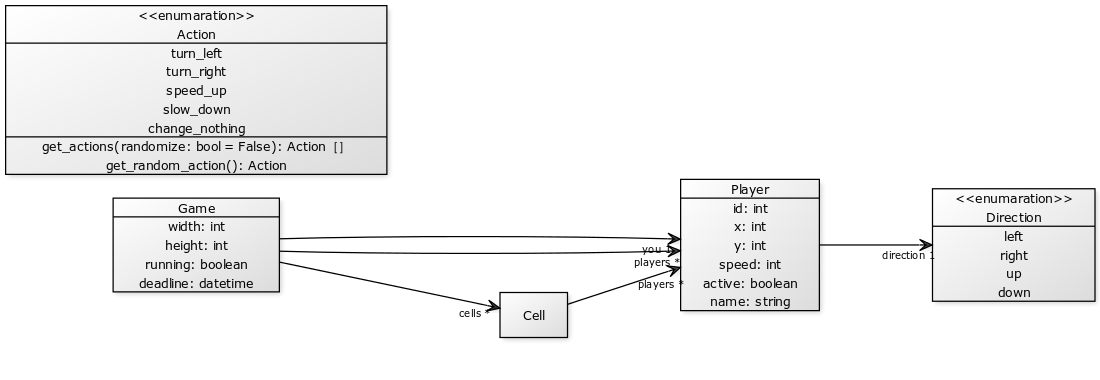
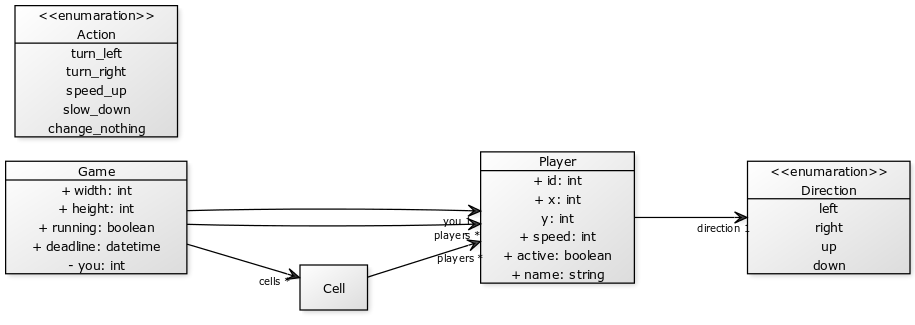
Korrekturen Kapitel Implementierung

Changed region(s): [[0.0, 0.4615, 1.0, 0.9846], [0.0, 0.0, 0.3672, 0.4615], [0.3366, 0.7385, 0.3978, 0.7692]]

diff --git a/dokumentation/Inhalte/Implementierung.tex b/dokumentation/Inhalte/Implementierung.tex
@@ -17,8 +17,8 @@ mithilfe eines objektorientierten Ansatzes abbilden kann. \\
 
 Das Ergebnis der Modellierung ist in \Abbildung{fig:klassendiagramm-modell} zu sehen.
 Das \Code{Game} hat Zugriff auf die eigenen Eigenschaften, kennt aber auch alle \Code{Player}, die an diesem Spiel
-teilnehmen.
-Zudem besteht ein \Code{Game} aus einem zweidimensionalen Array aus \Code{Cells}, die das Spielfeld repräsentieren.
+teilnehmen und weiß, welcher von diesen der eigene Spieler ist.
+Zudem besteht ein \Code{Game} aus einem zweidimensionalen \Code{Cell}s-Array, der das Spielfeld repräsentieren.
 In einer \Code{Cell} befinden sich dann alle Spieler, die dieses Spielfeld bereits besucht haben. \\
 
 \begin{figure}[htb]
@@ -43,7 +43,7 @@ Nutzung nachfolgend noch eingegangen wird. \\
 
 Die zum Start des Spiels öffentlich bereitgestellte Methode \Code{play()} ist in \Listing{lst:online-play} dargestellt.
 Diese ist sehr simpel und ruft lediglich die private Methode \Code{\_\_play()} auf.
-Hierbei handelt es sich um eine asynchrone Methode, wie schon in der Methoden-Signatur deutlich wird.
+Hierbei handelt es sich um eine asynchrone Methode.
 Es wird mittels der Bibliothek \Code{asyncio} sichergestellt, dass diese asynchrone Methode vollständig verarbeitet
 wurde, bevor der Kontrollfluss im Programm weiterläuft.
 Sobald dies der Fall ist, ist das Spielende eingetreten und die Oberfläche wird beendet. \\
@@ -65,8 +65,7 @@ Der Beginn einer neuen Spielrunde wird damit eingeläutet, dass neue Daten über
 versendet werden.
 Dabei handelt es sich jeweils um den aktuellen Zustand des Spiels mit allen notwendigen Daten.
 Zur Serialisierung wird das Spiel in ein JSON-Format übersetzt.
-Ein Beispiel zur Veranschaulichung dieses Formats ist in \Anhang{lst:json-spiel} abgebildet.
-Anzumerken ist, dass die exakte Formatierung des Strings abweichen kann. \\
+Ein Beispiel zur Veranschaulichung dieses Formats ist in \Anhang{lst:json-spiel} abgebildet. \\
 
 Dieser eingelesene String wird an ein Objekt der Klasse \Code{JSONDataLoader} übergeben, welches die Übersetzung des
 JSON-Formats in ein \Code{Game}-Objekt - das wie in \Kapitel{sec:modellierung} beschrieben modelliert ist - zur Aufgabe
@@ -74,11 +73,10 @@ hat. \\
 
 Sobald das Spiel fertig aufgebaut wurde, wird ein \Code{GET}-Request an den Server geschickt, auf welchen
 die aktuelle Server-Zeit als Antwort erwartet wird und ebenfalls durch den \Code{JSONDataLoader} aus einem String in ein
-\Code{datetime}-Objekt geparst wird.
-Diese Server-Zeit wird dann verwendet, um durch einen Abgleich mit der Zeit des eigenen Systems gegebenenfalls die
-Deadline für die Festlegung auf die nächste Aktion zu verschieben, da diese sich immer nach der Server-Zeit richtet.
-Es wird hierbei eine Toleranz von drei Sekunden eingebaut, da je nach Internet-Verbindung die Anfrage an den Server
-etwas dauern kann und so die Aktion besser zu früh als zu spät übermittelt werden sollte.
+\Code{datetime}-Objekt \Vgl{python-datetime} geparst wird.
+Da die Server- und die System-Zeit abweichen können und die Deadline-Zeit des Spiels auf der Server-Zeit basiert,
+wird die Abweichung zwischen dem Server und dem eigenen System berechnet und diese dann auf die Deadline angewendet,
+sodass diese anschließend mit dem eigenen System synchronisiert ist.
 
 \subsection{Ermittlung der besten Aktion}
 \label{subsec:ermitteln-aktion}
@@ -95,27 +93,30 @@ nächsten Zug berechnet, durch die der Spieler nicht direkt sterben wird.
 Erst im Anschluss wird die Berechnung der eigentlich ausgewählten \ac{KI} in einem neuen Prozess gestartet. \\
 
 Hierbei kann die Berechnung länger dauern, als in der Spielrunde zeitlich zur Verfügung steht.
-Daher wird dieser Prozess eine Sekunde vor Ablauf der Deadline abgebrochen, falls die Berechnung der \ac{KI} noch nicht
-beendet ist.
-Bei einem Abbruch wird dann die Standard-Aktion an den Server geschickt, andernfalls wird die Berechnung der stärkeren
-\ac{KI} verwendet.
+Daher wird dieser Prozess eine Sekunde vor Ablauf der Deadline abgebrochen, falls die Berechnung der \ac{KI} dann noch
+nicht beendet ist.
+Bei einem Abbruch wird die errechnete Standard-Aktion an den Server geschickt, andernfalls wird die Berechnung der
+stärkeren \ac{KI} verwendet.
+Es kann allerdings sein, dass eine \ac{KI} schon Zwischenergebnisse bereitstellt, welche in dem Fall dann den
+Rückgabewert darstellen.
 Welche Art der im \Kapitel{ch:loesungsansatz} beschriebenen \ac{KI}s gewählt wird, steht dem Anwender grundsätzlich
 vollkommen frei.
 
 \subsection{Übergabe der Aktion an die Web-API}
 \label{subsec:uebergabe-aktion}
 
-Sobald eine Aktion ausgewählt wurde, muss diese dem Server noch mitgeteilt werden.
-In der Dokumentation für die diesjährige Aufgabenstellung wurde festgehalten, dass auch hier wieder das JSON-Format
-verwendet werden soll.
+Sobald eine Aktion ausgewählt wurde, muss diese dem Server mitgeteilt werden.
+In der Dokumentation für die diesjährige Aufgabenstellung \Vgl{informaticup21-aufgabe} wurde festgehalten, dass auch
+hier wieder das JSON-Format verwendet werden soll.
 Daher wird die Aktion an die Klasse \Code{JSONDataWriter} überreicht, die einen String folgender Form erstellt:
-\texttt{\{\dq action\dq : \dq speed\_up\dq \}}, welcher dann über die Websocket-Verbindung an den Server gesendet wird.
+\texttt{\{\dq action\dq : \dq speed\_up\dq \}}.
+Dieser wird anschließend über die Websocket-Verbindung an den Server gesendet.
 
 \section{Implementierung des Offline-Spiels}
 \label{sec:offline-implementierung}
 
 Bei der Offline-Version des Spiels ging es darum, lokal die eigenen \ac{KI}s gegeneinander spielen zu lassen und
-als menschlicher Spieler gegen die \ac{KI} antreten zu können, ohne eine Verbindung zum spe\_ed-Server herstellen zu
+als menschlicher Spieler gegen die \ac{KI}s antreten zu können, ohne eine Verbindung zum spe\_ed-Server herstellen zu
 müssen.
 Dies ermöglichte uns, lokal zu testen und unsere verschiedenen Lösungsansätze (siehe \Kapitel{ch:loesungsansatz})
 gegeneinander auszuprobieren, um zu beurteilen, welche die beste Strategie ist.
@@ -135,6 +136,9 @@ Dieses \Code{Game}-Objekt wird dann im Spielverlauf durch den \Code{GameService}
 Zusätzlich werden die \ac{KI}s erzeugt und exklusiv einem Spieler zugeordnet, der sich im Spiel befindet.
 Solange das Spiel läuft, werden der Reihe nach die nächsten Aktionen der
 Spieler/\ac{KI}s abgefragt und an den \Code{GameService} weitergeleitet.
+Die Berechnung einer \ac{KI} findet in einem eigenen Prozess statt.
+Falls mehr Zeit gebraucht wird, als in der Runde zur Verfügung steht, kann der Prozess dann abgebrochen werden, um eine
+Fortführung des Spiels zu gewährleisten.
 
 \subsection{Implementierung des GameService}
 \label{subsec:game-service}
@@ -169,13 +173,13 @@ Aktion machen darf und ob ein neuer Spielzug nach dieser Aktion beginnt.
 Nachfolgend wird dann die Aktion mit der Methode \Code{get\_and\_visit\_cells(player: Player, action: Action)}
 simuliert.
 Der Code der Methode befindet sich im \Anhang{lst:get-and-visit-cells}.
-Dabei wird der Spieler aktualisiert (x- und y-Koordinate, speed), der die Ausführung der Aktion eingeleitet hat und er
-wird im \Code{Game} in die \Code{Cell}s eingetragen, die er durch die Aktion neu besucht hat.
+Dabei wird der Spieler, der die Ausführung der Aktion eingeleitet hat, bezüglich seiner x- und y-Koordinaten,
+seiner Geschwindigkeit und seiner Ausrichtung aktualisiert und er wird im \Code{Game} in die \Code{Cell}s eingetragen,
+die er durch die Aktion neu besucht hat.
 Sollte ein neuer Spielzug durch die Aktion entstanden sein, werden Spieler mit Kollisionen inaktiv geschaltet und
 geprüft, ob das Spiel beendet ist. \\
 
-Mithilfe dieser Logik des \Code{GameService} können wir Spiele autark durchführen.
-
+Mithilfe dieser Logik des \Code{GameService} können wir Spiele ohne Nutzung des spe\ed-Servers durchführen.
 Bei der Implementierung der Logik wurde darauf geachtet, dass diese auch bei der Implementierung unserer \ac{KI}s
 helfen.
 Dadurch konnte der \Code{GameService} in den \ac{KI}s häufig genutzt werden, um beispielsweise Züge vorherzusagen oder
@@ -187,25 +191,25 @@ zu prüfen, ob Aktionen zum Verlieren führen.
 Unabhängig davon, ob ein Spiel online oder offline ausgeführt wird, gibt es die Möglichkeit, den Spielverlauf in zwei
 verschiedenen Formen dargestellt zu bekommen.
 Zum einen lässt sich das Spiel auf der Konsole darstellen und zum anderen als grafische Oberfläche mittels PyGame.
-Beide Darstellungsvarianten implementieren das Interface \Code{View}.
+Darüber hinaus wird eine weitere Dummy-UI bereitgestellt, die jegliche Ausgaben zu dem Spiel-Zustand unterdrückt.
+Alle drei Darstellungsvarianten implementieren das Interface \Code{View}.
 
 \subsection{View-Interface}
 \label{subsec:interface-view}
 
 Das Interface \Code{View} deklariert 3 abstrakte Methoden, die durch die Unterklassen implementiert werden müssen.
-
 Die Methode \Code{update(game: Game)} ist dafür gedacht, dem Benutzer das Spielgeschehen fortlaufend mithilfe des
 übergebenen \Code{Game}-Objekts darzustellen, sodass immer der aktuelle Stand des Spiels angezeigt wird.
-Mit der Methode \Code{read\_next\_action()} soll die Funktionalität bereitgestellt werden, als menschlicher Spieler
-eine Aktion durchführen zu können.
-Die dritte Methode \Code{end()} ist dafür gedacht, möglicherweise notwendige Schritte zum Beenden der Oberfläche
-auszuführen.
+Mit der Methode \Code{read\_next\_action()} wird die nächste Aktion eines menschlichen Spielers abfragt, eingelesen und
+verarbeitet.
+Die dritte Methode \Code{end()} ist dafür gedacht, notwendige Schritte zum Beenden der Oberfläche auszuführen.
 
 \subsection{Darstellung des Spiels in der Konsole}
 \label{subsec:oberflaeche-konsole}
 
 Die Umsetzung der konsolenbasierten View geschieht durch die Klasse \Code{ConsoleView}.
-Zur Darstellung des Spiels auf der Konsole haben wir uns für das Package \Code{tabulate} entschieden.
+Zur Darstellung des Spiels auf der Konsole haben wir uns für das Package \Code{tabulate} \Vgl{python-tabulate}
+entschieden.
 Dadurch war es leicht, strukturierte Tabellen in der Konsole auszugeben, was in der Methode \Code{update(game: Game)}
 geschieht.
 Durch das Attribut \Code{cells} in dem Objekt eines Spiels haben wir bereits die Belegung der Felder auf dem Spielfeld
@@ -222,9 +226,9 @@ genutzt und entsprechend der Eingabe wird die passende Aktion zurückgegeben.
 
 Die grafische Oberfläche wurde in der Klasse \Code{GraphicalView} umgesetzt.
 Bei der Darstellung des Spiels haben wir uns für die Nutzung der Bibliothek PyGame entschieden.
-Der Grund für die Entscheidung ist die leichte Implementierung eines zweidimensionalen Spiels, wie es das Spiel
-spe\_ed ist.
-Des Weiteren benötigt PyGame einen geringen Aufwand bei der Initialisierung, um ein Spiel rendern zu können. \\
+Der Grund für die Entscheidung ist die leichte Implementierung einer zweidimensionalen Oberfläche, mit welcher das Spiel
+spe\_ed abgebildet werden kann.
+Außerdem benötigt PyGame einen geringen Aufwand bei der Initialisierung, um ein Spiel rendern zu können. \Vgl{pygame} \\
 
 Zur Darstellung mittels PyGame durch die Methode \Code{update(game: Game)} wird dann in einem initialisierten Fenster
 jeder Bereich in Form von Rechtecken farblich bestimmt und aktualisiert.
